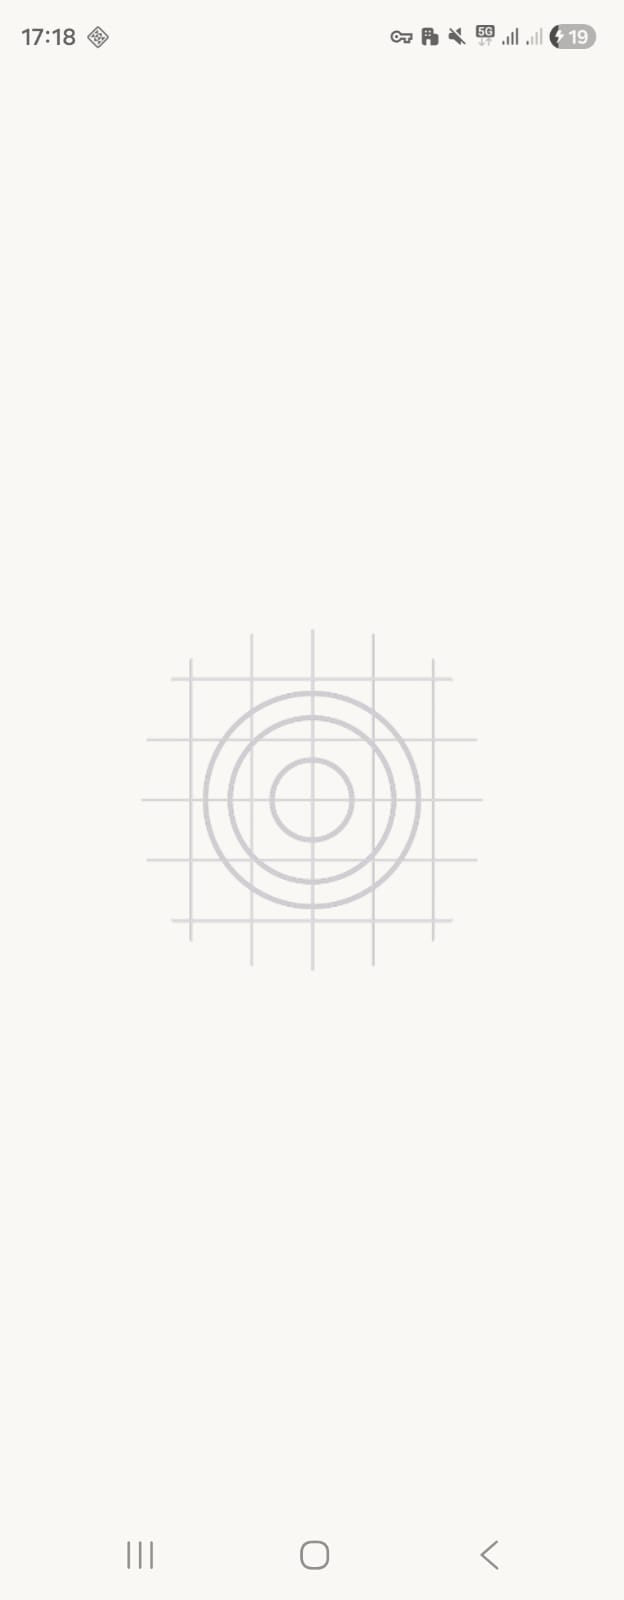
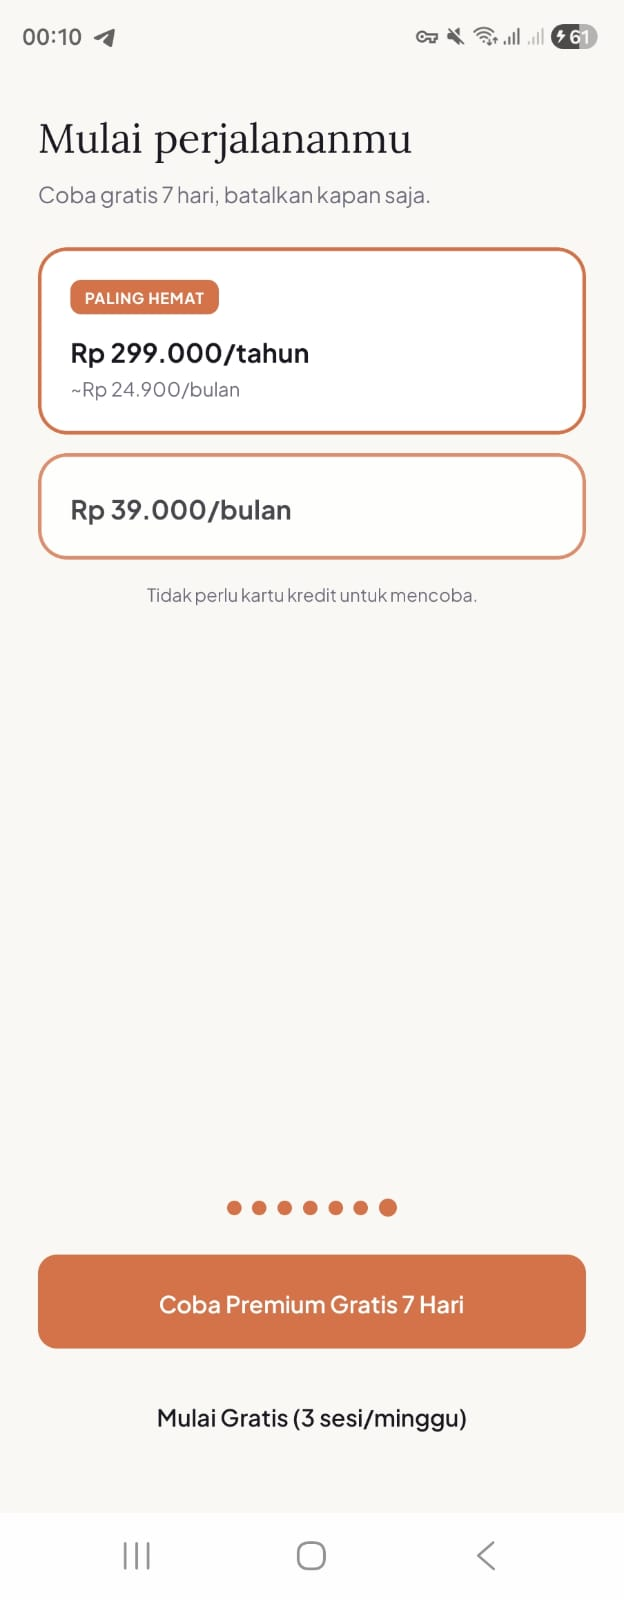
fix(onboarding): button activation + paywall single selection
- Button: move opacity to style prop (NativeWind dynamic class unreliable)
- goal/frequency/time screens: local useState for selection, Zustand
  selector for setter — eliminates persist hydration race condition
- PricingCard: highlighted = isSelected only (was isRecommended || isSelected,
  caused both cards to show orange border simultaneously)

diff --git a/src/app/_layout.tsx b/src/app/_layout.tsx
@@ -1,7 +1,7 @@
 import 'react-native-url-polyfill/auto'; // LANDMINE 3: must be first import
 import '../../global.css'; // NativeWind global styles
 import { useEffect } from 'react';
-import { Slot, Redirect } from 'expo-router';
+import { Slot, useSegments, useRouter } from 'expo-router';
 import { ActivityIndicator, View } from 'react-native';
 import { SafeAreaProvider } from 'react-native-safe-area-context';
 import { StatusBar } from 'expo-status-bar';
@@ -15,6 +15,7 @@ import { Lora_400Regular } from '@expo-google-fonts/lora';
 import * as SplashScreen from 'expo-splash-screen';
 import { useOnboardingStore } from '@/store/onboarding';
 import { useAuth } from '@/hooks/useAuth';
+import { useAuthStore } from '@/store/auth';
 import { COLORS } from '@/lib/constants';
 
 SplashScreen.preventAutoHideAsync();
@@ -28,13 +29,30 @@ export default function RootLayout() {
   });
 
   const { isComplete } = useOnboardingStore();
-  const { session, loading: authLoading } = useAuth();
+  useAuth(); // syncs Supabase session into useAuthStore
+  const { session, loading: authLoading } = useAuthStore();
+  const segments = useSegments();
+  const router = useRouter();
 
   useEffect(() => {
     if (fontsLoaded || fontError) {
       SplashScreen.hideAsync().catch(() => {});
     }
   }, [fontsLoaded, fontError]);
+
+  useEffect(() => {
+    if (authLoading) return;
+
+    const inOnboarding = segments[0] === 'onboarding';
+    const inAuth = segments[0] === 'auth';
+
+    // Only navigate once, when not already in the right section
+    if (!isComplete && !inOnboarding) {
+      router.replace('/onboarding');
+    } else if (isComplete && !session && !inAuth) {
+      router.replace('/auth/login' as any);
+    }
+  }, [isComplete, session, authLoading]);
 
   // Show spinner while Supabase resolves the existing session —
   // avoids flashing onboarding/login for returning users
@@ -55,8 +73,6 @@ export default function RootLayout() {
           1. No onboarding completed → onboarding flow
           2. Not authenticated → login
           3. Authenticated → main tabs  */}
-      {!isComplete && <Redirect href="/onboarding" />}
-      {isComplete && !session && <Redirect href="/auth/login" />}
       <Slot />
     </SafeAreaProvider>
   );

diff --git a/tests/hooks/useAuth.test.ts b/tests/hooks/useAuth.test.ts
@@ -16,6 +16,7 @@ jest.mock('@/lib/supabase', () => ({
 }));
 
 import { useAuth } from '@/hooks/useAuth';
+import { useAuthStore } from '@/store/auth';
 
 beforeEach(() => {
   jest.clearAllMocks();
@@ -23,30 +24,31 @@ beforeEach(() => {
   mockOnAuthStateChange.mockReturnValue({
     data: { subscription: { unsubscribe: mockUnsubscribe } },
   });
+  // Reset store to initial state
+  useAuthStore.setState({ session: null, loading: true, isAuthenticated: false });
 });
 
 describe('useAuth', () => {
-  it('returns loading true before getSession resolves', () => {
-    // Don't await — check synchronous initial state
-    const { result } = renderHook(() => useAuth());
-    expect(result.current.loading).toBe(true);
+  it('store starts with loading true before getSession resolves', () => {
+    renderHook(() => useAuth());
+    expect(useAuthStore.getState().loading).toBe(true);
   });
 
-  it('returns session null and loading false after getSession resolves with no session', async () => {
-    const { result } = renderHook(() => useAuth());
+  it('syncs null session and loading false into store after getSession resolves', async () => {
+    renderHook(() => useAuth());
     await act(async () => {});
-    expect(result.current.session).toBeNull();
-    expect(result.current.loading).toBe(false);
+    expect(useAuthStore.getState().session).toBeNull();
+    expect(useAuthStore.getState().loading).toBe(false);
   });
 
-  it('sets session when getSession returns a session', async () => {
+  it('syncs session into store when getSession returns a session', async () => {
     const fakeSession = { user: { id: 'user-1' }, access_token: 'token' } as any;
     mockGetSession.mockResolvedValueOnce({ data: { session: fakeSession } });
 
-    const { result } = renderHook(() => useAuth());
+    renderHook(() => useAuth());
     await act(async () => {});
-    expect(result.current.session).toEqual(fakeSession);
-    expect(result.current.loading).toBe(false);
+    expect(useAuthStore.getState().session).toEqual(fakeSession);
+    expect(useAuthStore.getState().loading).toBe(false);
   });
 
   it('subscribes to auth state changes on mount', async () => {

diff --git a/src/app/auth/login.tsx b/src/app/auth/login.tsx
@@ -1,15 +1,59 @@
 import { View, Text } from 'react-native';
+import { useRouter } from 'expo-router';
 import { SafeScreen } from '@/components/ui/SafeScreen';
+import { Button } from '@/components/ui/Button';
+import { useAuthStore } from '@/store/auth';
+import { useOnboardingStore } from '@/store/onboarding';
+import { COLORS } from '@/lib/constants';
 
-/** Login screen stub — full implementation in M002/S03/T02 */
+/** Login screen stub — full implementation in M002/S03 */
 export default function LoginScreen() {
+  const router = useRouter();
+  const { setSession } = useAuthStore();
+  const { reset } = useOnboardingStore();
+
+  // DEV BYPASS: skip real auth until S03 builds login form
+  function handleDevBypass() {
+    setSession({ user: { id: 'dev-user', email: 'dev@reflect.id' } } as any);
+    router.replace('/(tabs)');
+  }
+
+  function handleResetOnboarding() {
+    reset();
+    router.replace('/onboarding');
+  }
+
   return (
     <SafeScreen>
       <View className="flex-1 items-center justify-center px-6">
-        <Text className="text-3xl font-bold text-brand-primary mb-2">Reflect</Text>
-        <Text className="text-base text-text-muted text-center">
+        <Text
+          style={{
+            fontFamily: 'Lora_400Regular',
+            fontSize: 28,
+            color: COLORS.brandPrimary,
+            marginBottom: 8,
+          }}
+        >
+          Reflect
+        </Text>
+        <Text
+          style={{
+            fontFamily: 'PlusJakartaSans_400Regular',
+            fontSize: 16,
+            color: COLORS.textMuted,
+            textAlign: 'center',
+            marginBottom: 40,
+          }}
+        >
           Masuk untuk melanjutkan perjalananmu.
         </Text>
+        <Button label="Lanjutkan (Dev)" onPress={handleDevBypass} />
+        <Button
+          label="Ulangi Onboarding"
+          variant="secondary"
+          onPress={handleResetOnboarding}
+          style={{ marginTop: 12 }}
+        />
       </View>
     </SafeScreen>
   );

diff --git a/src/hooks/useAuth.ts b/src/hooks/useAuth.ts
@@ -1,38 +1,34 @@
-import { useEffect, useState } from 'react';
-import { Session } from '@supabase/supabase-js';
+import { useEffect } from 'react';
 import { supabase } from '@/lib/supabase';
-
-interface AuthState {
-  session: Session | null;
-  loading: boolean;
-}
+import { useAuthStore } from '@/store/auth';
 
 /**
- * Subscribes to Supabase auth state changes and returns the current session.
+ * Subscribes to Supabase auth state changes and syncs into useAuthStore.
  * Handles initial session fetch + real-time auth events (sign-in, sign-out, token refresh).
+ * Read session/loading from useAuthStore — not from this hook's return value.
  * Cleans up the subscription on unmount.
  */
-export function useAuth(): AuthState {
-  const [session, setSession] = useState<Session | null>(null);
-  const [loading, setLoading] = useState(true);
+export function useAuth() {
+  const { setSession } = useAuthStore();
 
   useEffect(() => {
     // Fetch existing session on mount (handles app restart with persisted session)
-    supabase.auth.getSession().then(({ data: { session } }) => {
-      setSession(session);
-      setLoading(false);
-    });
+    supabase.auth.getSession()
+      .then(({ data: { session } }) => {
+        setSession(session);
+      })
+      .catch(() => {
+        // Supabase not configured or network error — treat as no session
+        setSession(null);
+      });
 
     // Subscribe to auth state changes (login, logout, token refresh)
     const {
       data: { subscription },
     } = supabase.auth.onAuthStateChange((_event, session) => {
       setSession(session);
-      setLoading(false);
     });
 
     return () => subscription.unsubscribe();
   }, []);
-
-  return { session, loading };
 }

diff --git a/src/app/onboarding/time.tsx b/src/app/onboarding/time.tsx
@@ -1,3 +1,4 @@
+import { useState } from 'react';
 import { View, Text, TouchableOpacity } from 'react-native';
 import { router } from 'expo-router';
 import { SafeScreen } from '@/components/ui/SafeScreen';
@@ -22,7 +23,8 @@ const TIME_OPTIONS: TimeOption[] = [
 
 /** Onboarding Screen 4 — Time preference */
 export default function OnboardingTime() {
-  const { timePreference, setTimePreference } = useOnboardingStore();
+  const setTimePreference = useOnboardingStore((s) => s.setTimePreference);
+  const [selected, setSelected] = useState<TimePreference>(null);
 
   return (
     <SafeScreen>
@@ -39,11 +41,11 @@ export default function OnboardingTime() {
 
           <View className="gap-3">
             {TIME_OPTIONS.map((opt) => {
-              const isSelected = timePreference === opt.value;
+              const isSelected = selected === opt.value;
               return (
                 <TouchableOpacity
                   key={opt.value}
-                  onPress={() => setTimePreference(opt.value)}
+                  onPress={() => setSelected(opt.value)}
                   activeOpacity={0.7}
                   style={[
                     {
@@ -100,8 +102,8 @@ export default function OnboardingTime() {
             variant="primary"
             size="lg"
             label="Lanjut"
-            disabled={!timePreference}
-            onPress={() => router.push('/onboarding/preview' as any)}
+            disabled={!selected}
+            onPress={() => { setTimePreference(selected); router.push('/onboarding/preview' as any); }}
           />
         </View>
       </View>

diff --git a/src/app/onboarding/frequency.tsx b/src/app/onboarding/frequency.tsx
@@ -1,3 +1,4 @@
+import { useState } from 'react';
 import { View, Text, TouchableOpacity } from 'react-native';
 import { router } from 'expo-router';
 import { SafeScreen } from '@/components/ui/SafeScreen';
@@ -20,7 +21,8 @@ const FREQ_OPTIONS: FreqOption[] = [
 
 /** Onboarding Screen 3 — Frequency selection */
 export default function OnboardingFrequency() {
-  const { frequency, setFrequency } = useOnboardingStore();
+  const setFrequency = useOnboardingStore((s) => s.setFrequency);
+  const [selected, setSelected] = useState<Frequency>(null);
 
   return (
     <SafeScreen>
@@ -37,11 +39,11 @@ export default function OnboardingFrequency() {
 
           <View className="gap-3">
             {FREQ_OPTIONS.map((opt) => {
-              const isSelected = frequency === opt.value;
+              const isSelected = selected === opt.value;
               return (
                 <TouchableOpacity
                   key={opt.value}
-                  onPress={() => setFrequency(opt.value)}
+                  onPress={() => setSelected(opt.value)}
                   activeOpacity={0.7}
                   style={[
                     {
@@ -92,8 +94,8 @@ export default function OnboardingFrequency() {
             variant="primary"
             size="lg"
             label="Lanjut"
-            disabled={!frequency}
-            onPress={() => router.push('/onboarding/time')}
+            disabled={!selected}
+            onPress={() => { setFrequency(selected); router.push('/onboarding/time'); }}
           />
         </View>
       </View>

diff --git a/src/app/onboarding/goal.tsx b/src/app/onboarding/goal.tsx
@@ -1,3 +1,4 @@
+import { useState } from 'react';
 import { View, Text, TouchableOpacity } from 'react-native';
 import { router } from 'expo-router';
 import { SafeScreen } from '@/components/ui/SafeScreen';
@@ -21,7 +22,8 @@ const GOAL_OPTIONS: GoalOption[] = [
 
 /** Onboarding Screen 2 — Goal selection */
 export default function OnboardingGoal() {
-  const { goal, setGoal } = useOnboardingStore();
+  const setGoal = useOnboardingStore((s) => s.setGoal);
+  const [selected, setSelected] = useState<Goal>(null);
 
   return (
     <SafeScreen>
@@ -43,11 +45,11 @@ export default function OnboardingGoal() {
           {/* Goal cards */}
           <View className="gap-3">
             {GOAL_OPTIONS.map((opt) => {
-              const isSelected = goal === opt.value;
+              const isSelected = selected === opt.value;
               return (
                 <TouchableOpacity
                   key={opt.value}
-                  onPress={() => setGoal(opt.value)}
+                  onPress={() => setSelected(opt.value)}
                   activeOpacity={0.7}
                   style={[
                     {
@@ -105,8 +107,8 @@ export default function OnboardingGoal() {
             variant="primary"
             size="lg"
             label="Lanjut"
-            disabled={!goal}
-            onPress={() => router.push('/onboarding/frequency')}
+            disabled={!selected}
+            onPress={() => { setGoal(selected); router.push('/onboarding/frequency'); }}
           />
         </View>
       </View>

diff --git a/src/components/ui/Button.tsx b/src/components/ui/Button.tsx
@@ -1,4 +1,4 @@
-import { TouchableOpacity, Text, ActivityIndicator, ViewStyle, TextStyle } from 'react-native';
+import { TouchableOpacity, Text, ActivityIndicator, ViewStyle, StyleSheet } from 'react-native';
 
 type ButtonVariant = 'primary' | 'secondary' | 'ghost';
 type ButtonSize = 'sm' | 'md' | 'lg';
@@ -56,13 +56,12 @@ export function Button({
       onPress={onPress}
       disabled={isDisabled}
       activeOpacity={0.85}
-      style={style}
+      style={[style, { opacity: isDisabled ? 0.4 : 1 }]}
       className={[
         'flex-row items-center justify-center',
         containerClass[variant],
         sizeClass[size],
         fullWidth ? 'w-full' : 'self-start',
-        isDisabled ? 'opacity-40' : 'opacity-100',
       ].join(' ')}
     >
       {loading ? (
@@ -72,12 +71,13 @@ export function Button({
         />
       ) : (
         <Text
-          className={[
-            'font-semibold',
-            labelClass[variant],
-            labelSizeClass[size],
-          ].join(' ')}
-          style={{ fontFamily: 'PlusJakartaSans_600SemiBold' }}
+          style={{
+            fontFamily: 'PlusJakartaSans_600SemiBold',
+            textAlign: 'center',
+            textAlignVertical: 'center',
+            color: variant === 'primary' ? '#FFFFFF' : variant === 'secondary' ? '#D4724A' : '#1A1A22',
+            fontSize: size === 'sm' ? 14 : 16,
+          }}
         >
           {label}
         </Text>

diff --git a/src/components/ui/PricingCard.tsx b/src/components/ui/PricingCard.tsx
@@ -14,7 +14,7 @@ interface PricingCardProps {
  * Annual plan shows "PALING HEMAT" badge and brand-primary border.
  */
 export function PricingCard({ price, sublabel, isRecommended, isSelected, onPress }: PricingCardProps) {
-  const highlighted = isRecommended || isSelected;
+  const highlighted = isSelected;
 
   return (
     <TouchableOpacity
